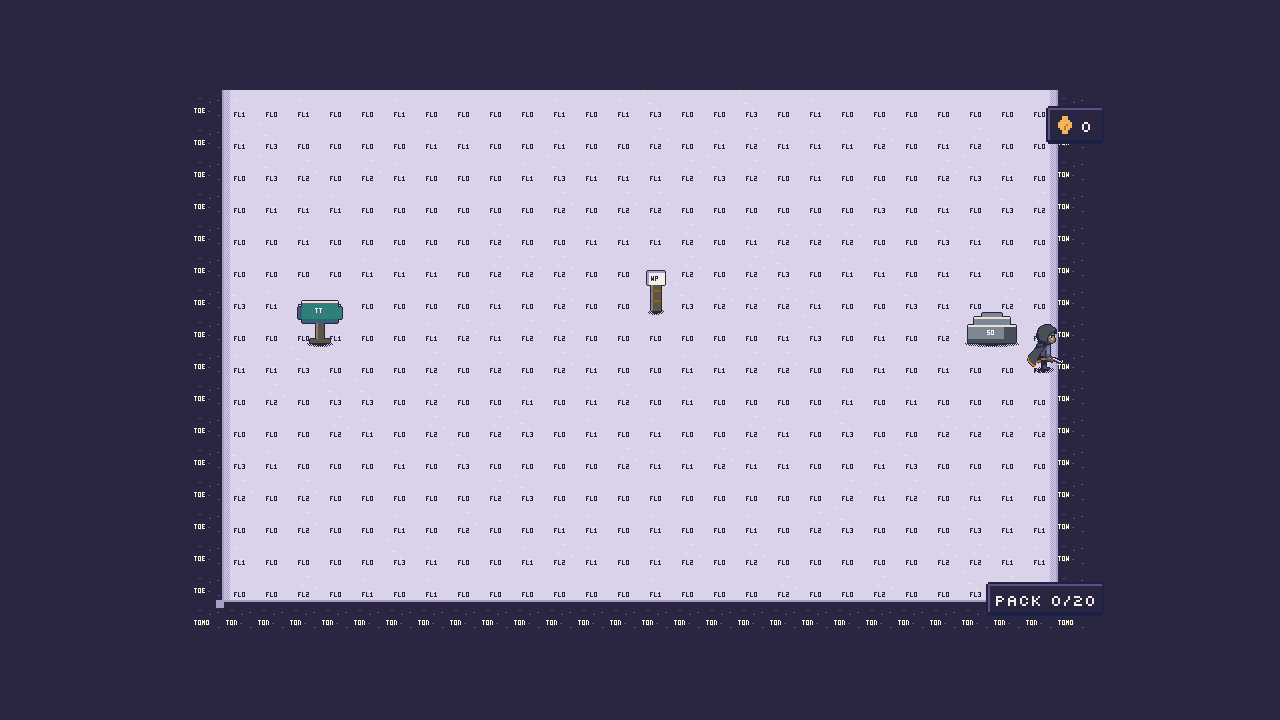
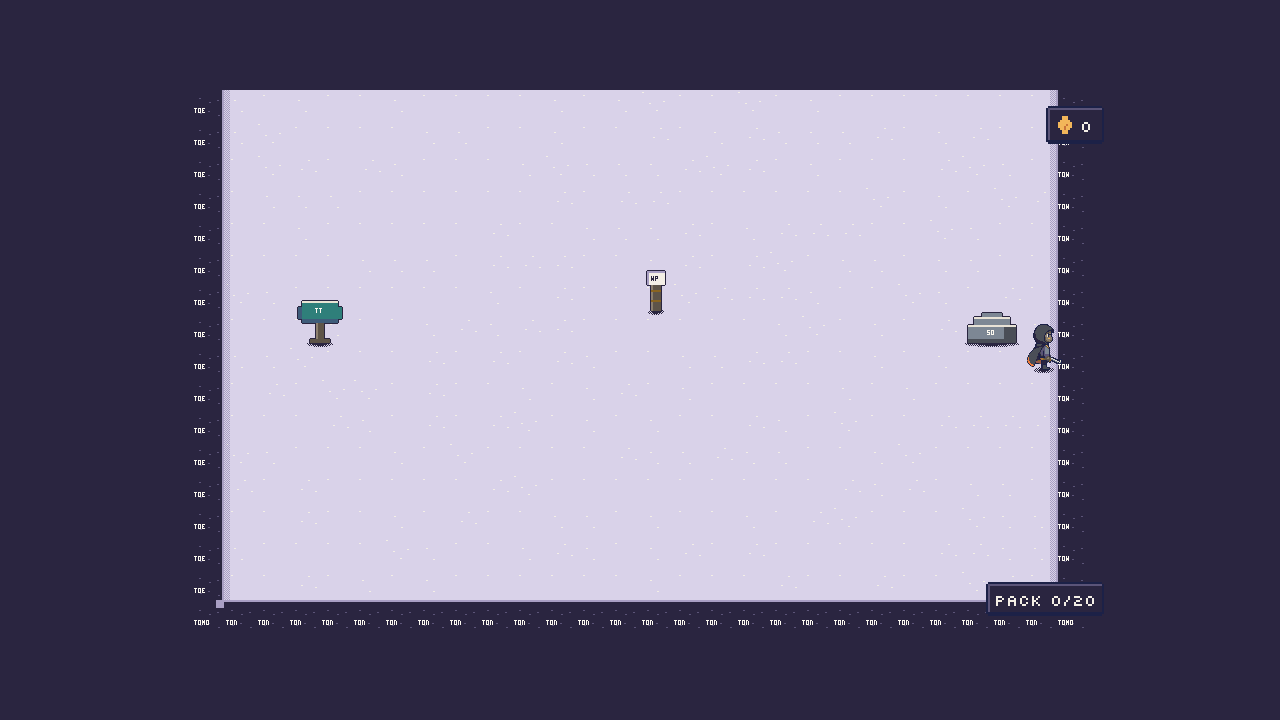
Art: the holding's floor placeholders carry no initials; the holding shots retaken (M2 Task 3b)
The four floor pieces of tiles-holding drew their name's initials like every
other piece, so the ground read as a grid of labels. They now carry only their
flecks (and the shade overlays only their dither), so the ground reads as ground
while the variants and shades still show. The face, top and door pieces and the
three props keep their initials, where a wrong pick should stay visible.

tools/placeholder-holding.py drops the tag on the floors; the sources, the sheet
and its review are rebuilt with pnpm art:build --all (only tiles-holding
changed); the holding screenshots in docs/screenshots/m2-3b are retaken;
docs/design/holding.md says which pieces carry initials.

Claude-Session: https://claude.ai/code/session_01ATaGLroqytEH7AV5LPvLLu

Changed region(s): [[0.8125, 0.4583, 0.8438, 0.5194]]

diff --git a/tools/placeholder-holding.py b/tools/placeholder-holding.py
@@ -2,8 +2,10 @@
 """
 Placeholder source art for the holding (M2 Task 3b), written into art/clean/
 for the art pipeline to build like any other sheet: flat, clearly placeholder
-shapes in whitelist colours, each piece tagged with its name's initials. ART
-replaces the pixels through the recipes (art/sheets/tiles-holding.json,
+shapes in whitelist colours. The face, top and door pieces and the props carry
+their name's initials, so a wrong pick shows in a shot; the floors and the shade
+overlays carry none, only their flecks and dither, so the ground reads as ground
+while the variants and shades still show. ART replaces the pixels through the recipes (art/sheets/tiles-holding.json,
 prop-writ-post.json, prop-twisted-tree.json, prop-stone-outcrop.json) without
 an engine change; nothing here is final art.
 
@@ -102,7 +104,6 @@ def draw_static(name):
     label = initials(name)
     if name.startswith("floor"):
         floor(px, int(name[-1]))
-        text(px, 10, 24, label, INK)
     elif name == "shade_n":
         dither(px, 0, 0, TILE, 6, SHADE)
     elif name == "shade_w":

diff --git a/art/review/tiles-holding/report.md b/art/review/tiles-holding/report.md
@@ -30,10 +30,10 @@ Kind tiles, outline other, 32×32 tiles, floor weights 6:3:2:1 (floor_0 to floor
 
 | Frame | Source | Size | Off-palette | Max ΔE | Outline gaps | Colours | Holes |
 |---|---|---|---|---|---|---|---|
-| floor_0 | `art/clean/tiles-holding/floor_0.png 0` | 32×32 | 0 | 0 | 0 | 3 |  |
-| floor_1 | `art/clean/tiles-holding/floor_1.png 0` | 32×32 | 0 | 0 | 0 | 3 |  |
-| floor_2 | `art/clean/tiles-holding/floor_2.png 0` | 32×32 | 0 | 0 | 0 | 3 |  |
-| floor_3 | `art/clean/tiles-holding/floor_3.png 0` | 32×32 | 0 | 0 | 0 | 3 |  |
+| floor_0 | `art/clean/tiles-holding/floor_0.png 0` | 32×32 | 0 | 0 | 0 | 2 |  |
+| floor_1 | `art/clean/tiles-holding/floor_1.png 0` | 32×32 | 0 | 0 | 0 | 2 |  |
+| floor_2 | `art/clean/tiles-holding/floor_2.png 0` | 32×32 | 0 | 0 | 0 | 2 |  |
+| floor_3 | `art/clean/tiles-holding/floor_3.png 0` | 32×32 | 0 | 0 | 0 | 2 |  |
 | shade_n | `art/clean/tiles-holding/shade_n.png 0` | 32×32 | 0 | 0 | 96 | 1 |  |
 | shade_w | `art/clean/tiles-holding/shade_w.png 0` | 32×32 | 0 | 0 | 96 | 1 |  |
 | shade_e | `art/clean/tiles-holding/shade_e.png 0` | 32×32 | 0 | 0 | 96 | 1 |  |

diff --git a/docs/design/holding.md b/docs/design/holding.md
@@ -45,7 +45,10 @@ station tile a pillar (`o`). All four sheets are MAIN's placeholders through the
 (`tools/placeholder-holding.py` writes the source PNGs into `art/clean/`, the recipes in `art/sheets/`
 say "placeholder by MAIN; ART replaces"); ART replaces the pixels through the recipes without an engine
 change. `tiles-holding` carries the same pieces as `tiles-cave`, the door frames as plain blocks: the
-holding has no doors, but a finished tile sheet carries every piece. The pipeline's `rooms.png` draws
+holding has no doors, but a finished tile sheet carries every piece. The face, top and door pieces and
+the three props carry their name's initials, so a wrong pick shows in a shot; the floors and the shade
+overlays carry only their flecks and dither, so the ground reads as ground while the four variants and
+the shades still show. The pipeline's `rooms.png` draws
 the holding's layout under the rooms of rooms.json for every tile set.
 
 ## 2. Roaming: walking outside encounters
